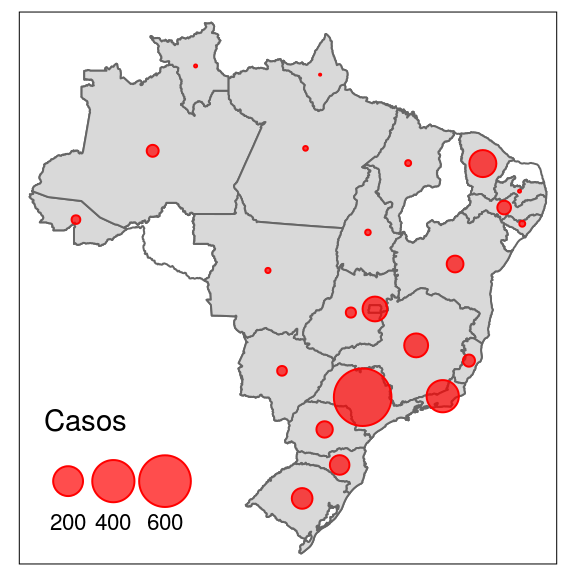
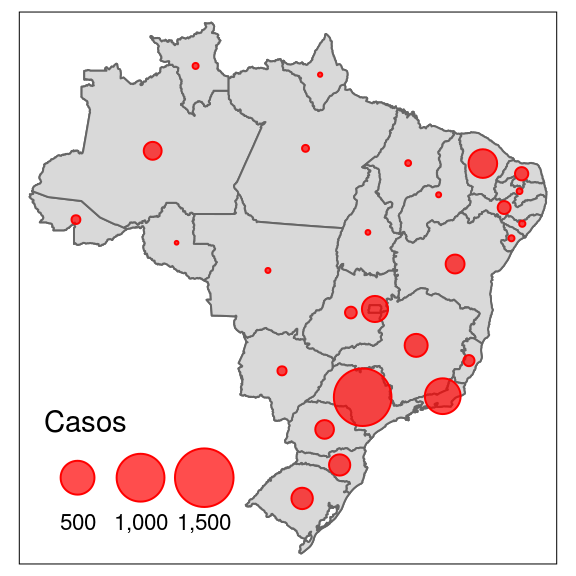
updates site

diff --git a/docs/articles/coronabr.html b/docs/articles/coronabr.html
@@ -111,27 +111,27 @@
 <h4 class="hasAnchor">
 <a href="#inspecionando-os-dados" class="anchor"></a>Inspecionando os dados</h4>
 <div class="sourceCode" id="cb3"><pre class="sourceCode r"><code class="sourceCode r"><a class="sourceLine" id="cb3-1" data-line-number="1"><span class="kw"><a href="https://rdrr.io/r/utils/head.html">head</a></span>(dados)</a></code></pre></div>
-<pre><code>##   city city_ibge_code confirmed confirmed_per_100k_inhabitants       date
-## 1 &lt;NA&gt;             52        60                        0.85490 2020-03-30
-## 2 &lt;NA&gt;             15        21                        0.24410 2020-03-30
-## 3 &lt;NA&gt;             14        16                        2.64131 2020-03-30
-## 4 &lt;NA&gt;             12        34                        3.85516 2020-03-29
-## 5 &lt;NA&gt;             27        17                        0.50939 2020-03-29
-## 6 &lt;NA&gt;             13       140                        3.37789 2020-03-29
-##   death_rate deaths estimated_population_2019 is_last order_for_place
-## 1     0.0167      1                   7018354    TRUE              19
-## 2         NA      0                   8602865    TRUE              13
-## 3         NA      0                    605761    TRUE              10
-## 4         NA      0                    881935    TRUE              13
-## 5         NA      0                   3337357    TRUE              19
-## 6     0.0071      1                   4144597    TRUE              13
-##   place_type state
-## 1      state    GO
-## 2      state    PA
-## 3      state    RR
-## 4      state    AC
-## 5      state    AL
-## 6      state    AM</code></pre>
+<pre><code>##         date state city place_type confirmed deaths is_last
+## 1 2020-03-30    GO           state        60      1    True
+## 2 2020-03-30    PA           state        21      0    True
+## 3 2020-03-30    PB           state        15      0    True
+## 4 2020-03-30    RN           state        77      1    True
+## 5 2020-03-30    RR           state        16      0    True
+## 6 2020-03-29    AC           state        34      0    True
+##   estimated_population_2019 city_ibge_code confirmed_per_100k_inhabitants
+## 1                   7018354             52                        0.85490
+## 2                   8602865             15                        0.24410
+## 3                   4018127             25                        0.37331
+## 4                   3506853             24                        2.19570
+## 5                    605761             14                        2.64131
+## 6                    881935             12                        3.85516
+##   death_rate
+## 1     0.0167
+## 2         NA
+## 3         NA
+## 4     0.0130
+## 5         NA
+## 6         NA</code></pre>
 </div>
 </div>
 <div id="baixando-os-dados-mundiais" class="section level3">

diff --git a/docs/reference/get_corona_br.html b/docs/reference/get_corona_br.html
@@ -36,7 +36,7 @@
 
 
 <meta property="og:title" content="Extrai dados de coronavírus para o Brasil de O Brasil em dados abertos — get_corona_br" />
-<meta property="og:description" content="Esta função extrai os valores compilados pelo portal Brasil.io, que recolhe boletins informativos e casos do coronavírus por minicípio e por dia (disponível em: https://brasil.io/dataset/covid19/caso). A função salva o resultado no disco." />
+<meta property="og:description" content="Esta função extrai os valores compilados pelo portal Brasil.io, que recolhe boletins informativos e casos do coronavírus por minicípio e por dia (disponível em: https://brasil.io/dataset/covid19/caso). A função salva o resultado no disco e escreve um arquivo com os metadados da requisição (metadado_corona_br.csv)." />
 <meta name="twitter:card" content="summary" />
 
 
@@ -126,7 +126,7 @@
     </div>
 
     <div class="ref-description">
-    <p>Esta função extrai os valores compilados pelo portal Brasil.io, que recolhe boletins informativos e casos do coronavírus por minicípio e por dia (disponível em: https://brasil.io/dataset/covid19/caso). A função salva o resultado no disco.</p>
+    <p>Esta função extrai os valores compilados pelo portal Brasil.io, que recolhe boletins informativos e casos do coronavírus por minicípio e por dia (disponível em: https://brasil.io/dataset/covid19/caso). A função salva o resultado no disco e escreve um arquivo com os metadados da requisição (metadado_corona_br.csv).</p>
     </div>
 
     <pre class="usage"><span class='fu'>get_corona_br</span>(

diff --git a/docs/reference/map_corona_br.html b/docs/reference/map_corona_br.html
@@ -129,7 +129,7 @@
     <p>Esta função faz o mapa do número de casos por estado brasileiro.</p>
     </div>
 
-    <pre class="usage"><span class='fu'>map_corona_br</span>(<span class='no'>df</span>, <span class='kw'>prop_pop</span> <span class='kw'>=</span> <span class='fl'>TRUE</span>, <span class='kw'>anim</span> <span class='kw'>=</span> <span class='fl'>FALSE</span>)</pre>
+    <pre class="usage"><span class='fu'>map_corona_br</span>(<span class='no'>df</span>, <span class='kw'>prop_pop</span> <span class='kw'>=</span> <span class='fl'>TRUE</span>, <span class='kw'>anim</span> <span class='kw'>=</span> <span class='fl'>FALSE</span>, <span class='kw'>dir</span> <span class='kw'>=</span> <span class='st'>"figs"</span>)</pre>
 
     <h2 class="hasAnchor" id="arguments"><a class="anchor" href="#arguments"></a>Arguments</h2>
     <table class="ref-arguments">
@@ -145,6 +145,10 @@
     <tr>
       <th>anim</th>
       <td><p>Lógico. Retornar animação com evolução do número de casos ao longo do tempo. Padrão anim = FALSE</p></td>
+    </tr>
+    <tr>
+      <th>dir</th>
+      <td><p>Caractere. Nome do diretório onde salvar a animação. Usar apenas se anim = TRUE.</p></td>
     </tr>
     </table>
 

diff --git a/docs/articles/graficos.html b/docs/articles/graficos.html
@@ -108,6 +108,7 @@
 <p>Um mapa com os dados do número de casos a cada 100.000 habitantes</p>
 <p><img src="graficos_files/figure-html/mapa1-1.png" width="288"></p>
 <p>Um mapa com o valor bruto no número de casos</p>
+<p><img src="graficos_files/figure-html/mapa2-1.png" width="288"></p>
 </div>
 <div id="crescimento-do-número-de-casos-nos-estados-mais-afetados" class="section level2">
 <h2 class="hasAnchor">
